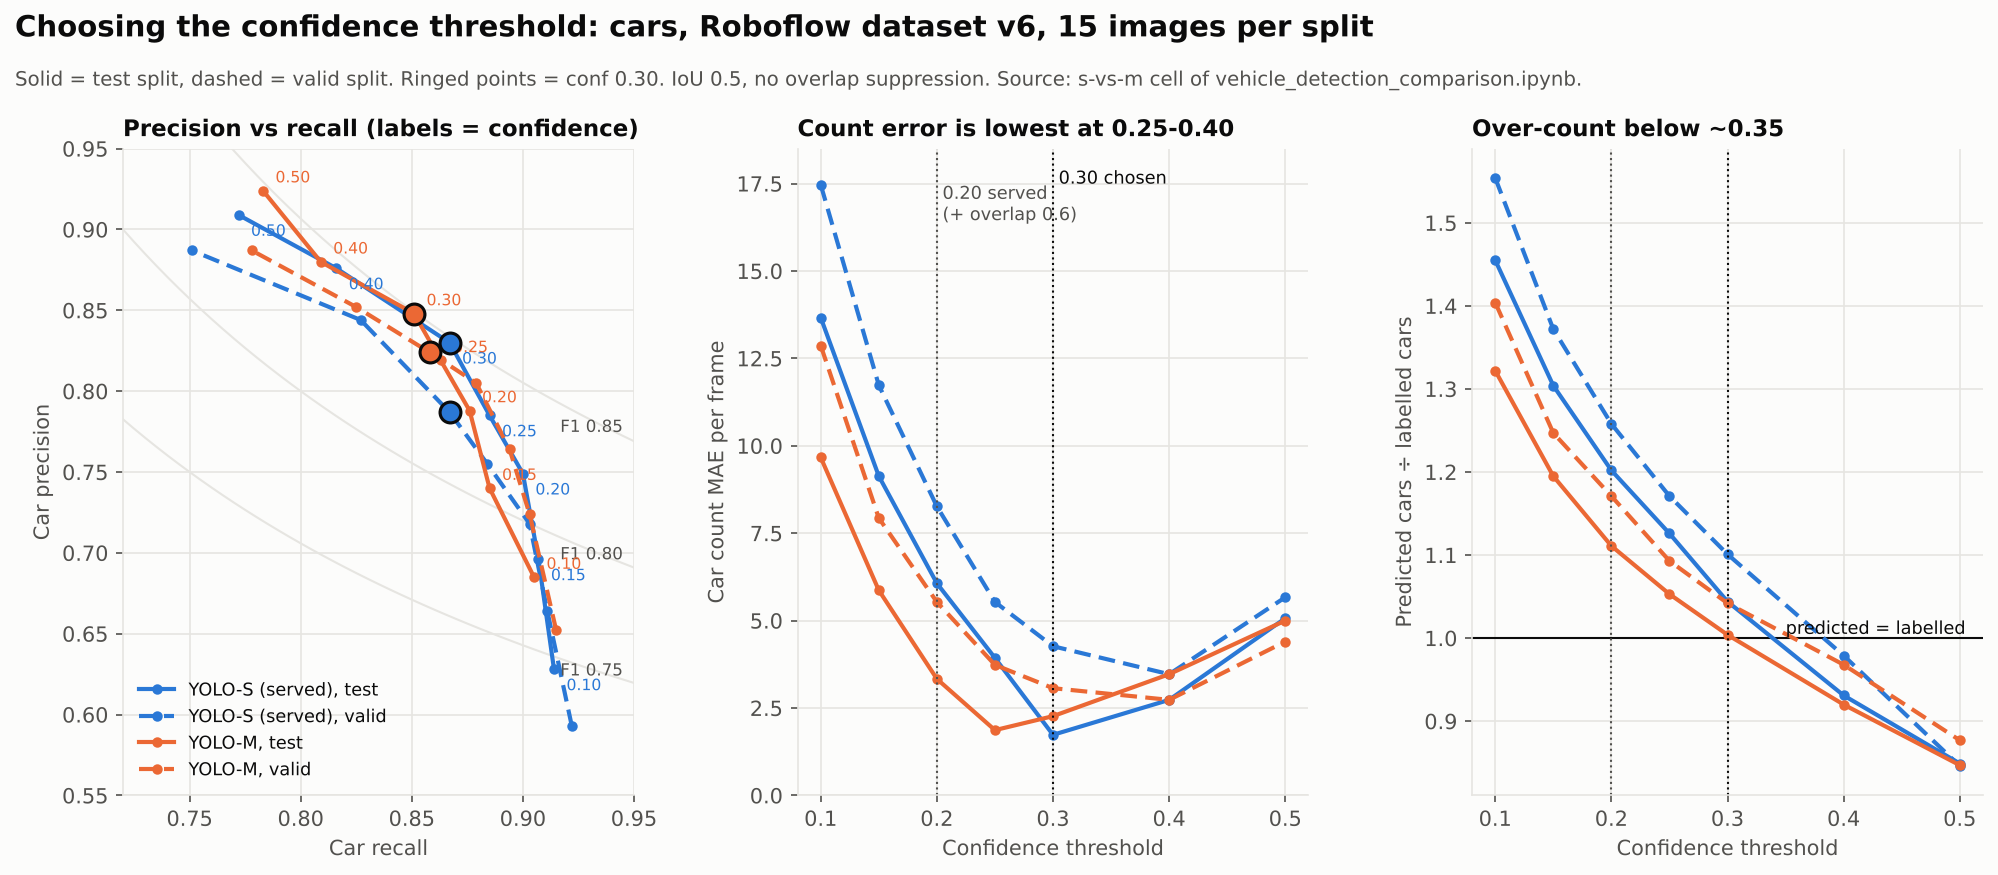
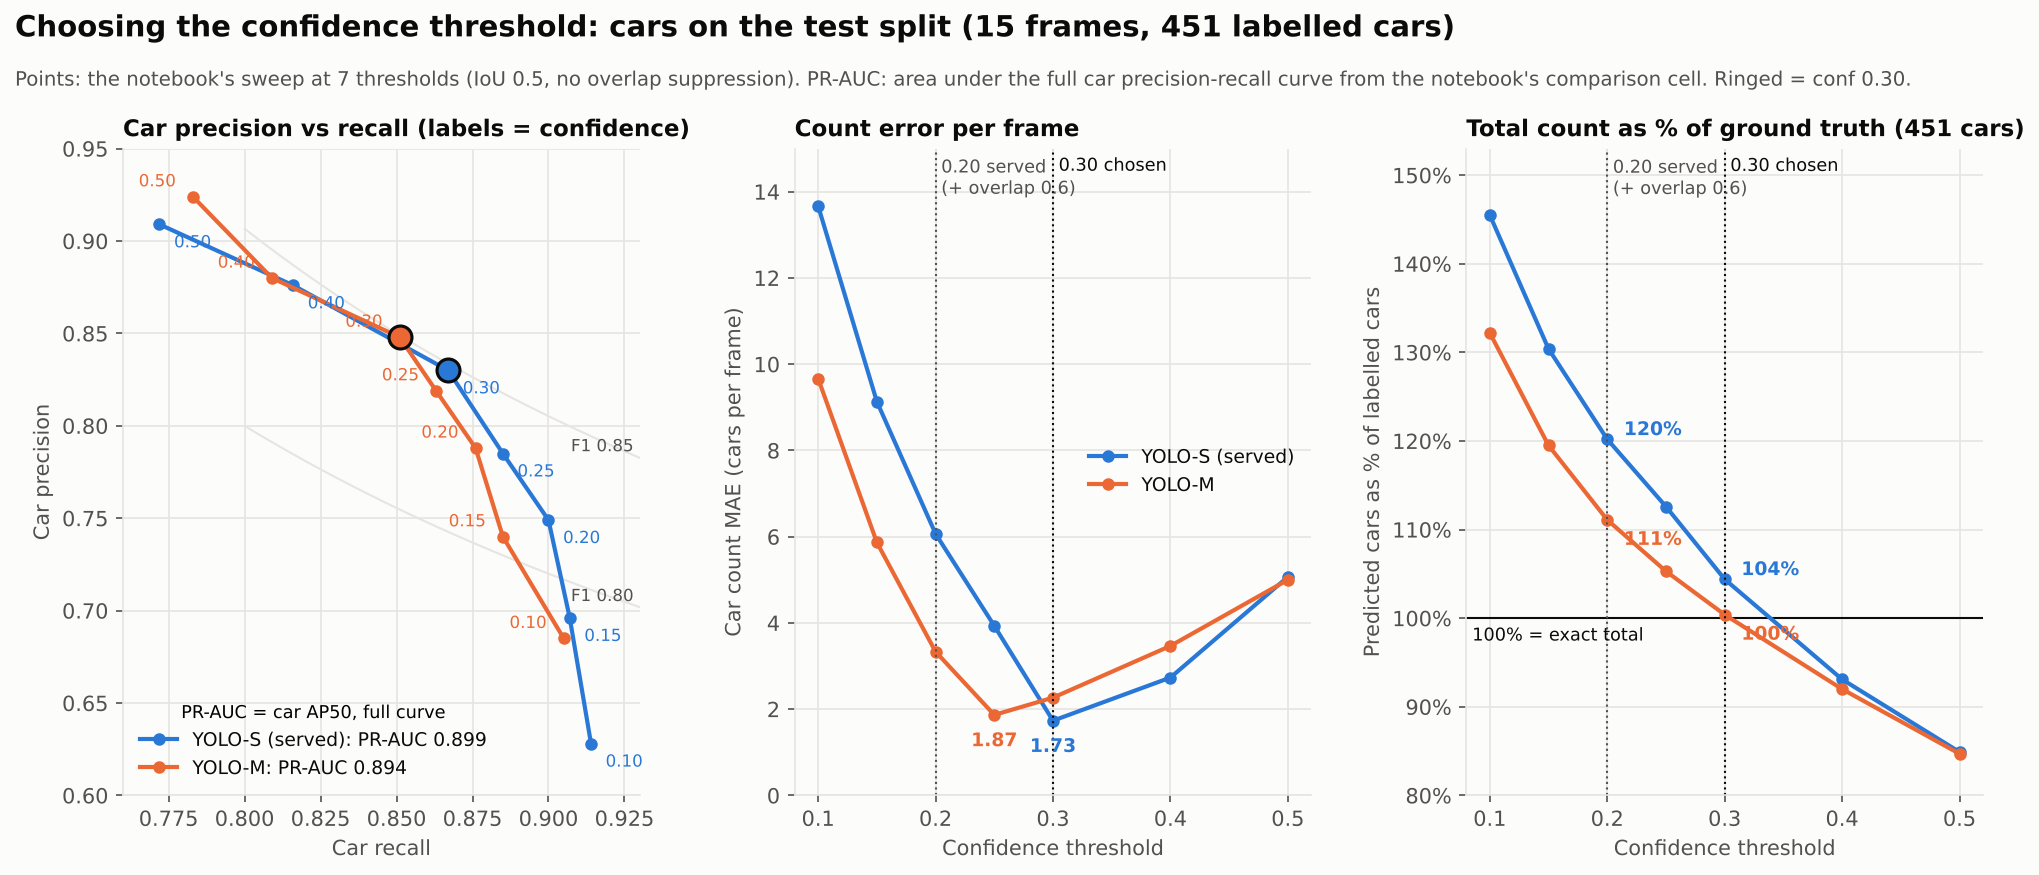
Threshold sweep chart: test split only, car PR-AUC, count as % of ground truth
Claude-Session: https://claude.ai/code/session_01VcwMcd7MRK6XLMnK8YMsG5

diff --git a/eval/test-reports/runs/plot_threshold_sweep.py b/eval/test-reports/runs/plot_threshold_sweep.py
@@ -7,7 +7,8 @@ full precision-recall curve; the full curves are BoxPR_curve.png in each eval_te
 
 Writes, next to this file:
   threshold_sweep.csv   one row per split, model and confidence
-  threshold_sweep.png   precision-recall points, count error and count ratio vs confidence
+  threshold_sweep.png   test split: precision-recall points with car PR-AUC, count error and
+                        count as a % of ground truth vs confidence
 
     python eval/test-reports/runs/plot_threshold_sweep.py
 """
@@ -48,7 +49,25 @@ def parse_sweep():
     return rows
 
 
+def parse_car_ap(split="test"):
+    """Car AP50 (area under the full precision-recall curve) from the full-comparison cell's table."""
+    nb = json.load(open(NOTEBOOK))
+    cell = next(c for c in nb["cells"] if "FULL COMPARISON" in "".join(c["source"]))
+    text = "".join("".join(o.get("text", [])) for o in cell.get("outputs", []))
+    table = text[text.index("ACCURACY (AP50"):text.index("OPERATING POINT")]
+    ap, current = {}, None
+    for line in table.splitlines():
+        parts = line.split()
+        if parts and parts[0] in ("valid", "test"):
+            current, parts = parts[0], parts[1:]
+        if current == split and parts and parts[0] in ("trained_s", "trained_m"):
+            ap[{"trained_s": "yolo26s", "trained_m": "yolo26m"}[parts[0]]] = float(parts[2])  # AP50 car
+    assert set(ap) == set(NAMES), ap
+    return ap
+
+
 rows = parse_sweep()
+CAR_AP = parse_car_ap()
 with open(os.path.join(HERE, "threshold_sweep.csv"), "w", newline="") as f:
     w = csv.DictWriter(f, fieldnames=list(rows[0]))
     w.writeheader()
@@ -63,75 +82,85 @@ def series(split, model, key):
 plt.rcParams.update({"font.family": "DejaVu Sans", "font.size": 10, "axes.edgecolor": GRID,
                      "axes.labelcolor": MUTED, "xtick.color": MUTED, "ytick.color": MUTED,
                      "axes.titlecolor": INK, "axes.titleweight": "bold", "axes.titlesize": 11})
-fig, axes = plt.subplots(1, 3, figsize=(16, 5.6), facecolor=SURFACE, gridspec_kw={"wspace": 0.32})
+fig, axes = plt.subplots(1, 3, figsize=(16, 5.6), facecolor=SURFACE, gridspec_kw={"wspace": 0.3})
 for ax in axes:
     ax.set_facecolor(SURFACE)
     ax.grid(True, color=GRID, linewidth=0.8)
     ax.set_axisbelow(True)
     for s in ("top", "right"):
         ax.spines[s].set_visible(False)
-LS = {"test": "-", "valid": (0, (4, 2))}
+SPLIT = "test"
 
-# 1. Precision vs recall, one point per confidence threshold
+
+def mark_thresholds(ax, top):
+    ax.axvline(CHOSEN, color=INK, lw=1, ls=":")
+    ax.axvline(SERVED, color=MUTED, lw=1, ls=":")
+    ax.text(CHOSEN, top, " 0.30 chosen", fontsize=8.5, color=INK, va="top")
+    ax.text(SERVED, top, " 0.20 served\n (+ overlap 0.6)", fontsize=8.5, color=MUTED, va="top")
+
+
+# 1. Precision vs recall, one point per confidence threshold; PR-AUC from the full curve
 ax = axes[0]
-for f1 in (0.75, 0.80, 0.85):  # iso-F1 guides
-    r = [x / 200 for x in range(140, 200)]
-    p = [f1 * x / (2 * x - f1) if 2 * x > f1 else None for x in r]
-    ax.plot(r, p, color=GRID, lw=1, zorder=0)
-    ax.text(0.945, f1 * 0.945 / (2 * 0.945 - f1), f"F1 {f1:.2f}", fontsize=8, color=MUTED, ha="right", va="bottom")
+for f1 in (0.80, 0.85):  # iso-F1 guides
+    r = [x / 400 for x in range(320, 381)]
+    ax.plot(r, [f1 * x / (2 * x - f1) for x in r], color=GRID, lw=1, zorder=0)
+    ax.text(0.928, f1 * 0.928 / (2 * 0.928 - f1), f"F1 {f1:.2f}", fontsize=8, color=MUTED, ha="right", va="bottom")
 for model in NAMES:
-    for split in ("test", "valid"):
-        _, rec, pts = series(split, model, "recall")
-        prec = [p["precision"] for p in pts]
-        ax.plot(rec, prec, ls=LS[split], color=COLORS[model], lw=2, marker="o", ms=4,
-                label=f"{NAMES[model]}, {split}")
-        for p in pts:
-            if p["conf"] == CHOSEN:
-                ax.plot(p["recall"], p["precision"], "o", ms=10, color=COLORS[model], mec=INK, mew=1.5, zorder=5)
-    _, rec, pts = series("test", model, "recall")
-    for p in pts:  # label the test points with their threshold
-        ax.annotate(f"{p['conf']:.2f}", (p["recall"], p["precision"]), xytext=(6, -10 if model == "yolo26s" else 4),
-                    textcoords="offset points", fontsize=7.5, color=COLORS[model])
-ax.set_xlim(0.72, 0.95)
-ax.set_ylim(0.55, 0.95)
+    _, rec, pts = series(SPLIT, model, "recall")
+    ax.plot(rec, [p["precision"] for p in pts], color=COLORS[model], lw=2, marker="o", ms=5,
+            label=f"{NAMES[model]}: PR-AUC {CAR_AP[model]:.3f}")
+    for p in pts:
+        if p["conf"] == CHOSEN:
+            ax.plot(p["recall"], p["precision"], "o", ms=11, color=COLORS[model], mec=INK, mew=1.5, zorder=5)
+        ax.annotate(f"{p['conf']:.2f}", (p["recall"], p["precision"]),
+                    xytext=(7, -11) if model == "yolo26s" else (-26, 5),
+                    textcoords="offset points", fontsize=8, color=COLORS[model])
+ax.set_xlim(0.76, 0.93)
+ax.set_ylim(0.60, 0.95)
 ax.set_xlabel("Car recall")
 ax.set_ylabel("Car precision")
-ax.set_title("Precision vs recall (labels = confidence)", loc="left")
-ax.legend(frameon=False, fontsize=8.5, loc="lower left", labelcolor=INK)
+ax.set_title("Car precision vs recall (labels = confidence)", loc="left")
+ax.legend(frameon=False, fontsize=9, loc="lower left", labelcolor=INK,
+          title="PR-AUC = car AP50, full curve", title_fontsize=8.5)
 
 # 2. Count error vs confidence
 ax = axes[1]
 for model in NAMES:
-    for split in ("test", "valid"):
-        conf, mae, _ = series(split, model, "count_mae")
-        ax.plot(conf, mae, ls=LS[split], color=COLORS[model], lw=2, marker="o", ms=4,
-                label=f"{NAMES[model]}, {split}")
-ax.axvline(CHOSEN, color=INK, lw=1, ls=":")
-ax.axvline(SERVED, color=MUTED, lw=1, ls=":")
-ax.text(CHOSEN, 17.5, " 0.30 chosen", fontsize=8.5, color=INK)
-ax.text(SERVED, 17.5, " 0.20 served\n (+ overlap 0.6)", fontsize=8.5, color=MUTED, va="top")
-ax.set_ylim(0, 18.5)
+    conf, mae, _ = series(SPLIT, model, "count_mae")
+    ax.plot(conf, mae, color=COLORS[model], lw=2, marker="o", ms=5, label=NAMES[model])
+    i = mae.index(min(mae))
+    ax.annotate(f"{mae[i]:.2f}", (conf[i], mae[i]), xytext=(0, -15), textcoords="offset points",
+                ha="center", fontsize=9, color=COLORS[model], fontweight="bold")
+mark_thresholds(ax, 14.8)
+ax.set_ylim(0, 15)
 ax.set_xlabel("Confidence threshold")
-ax.set_ylabel("Car count MAE per frame")
-ax.set_title("Count error is lowest at 0.25-0.40", loc="left")
+ax.set_ylabel("Car count MAE (cars per frame)")
+ax.set_title("Count error per frame", loc="left")
+ax.legend(frameon=False, fontsize=9, loc="center right", labelcolor=INK)
 
-# 3. Count ratio vs confidence
+# 3. Predicted count as a % of ground truth
 ax = axes[2]
-ax.axhline(1.0, color=INK, lw=1)
-ax.text(0.505, 1.0, "  predicted = labelled", fontsize=8.5, color=INK, va="bottom", ha="right")
+ax.axhline(100, color=INK, lw=1)
+ax.text(0.085, 99, "100% = exact total", fontsize=8.5, color=INK, va="top", ha="left")
 for model in NAMES:
-    for split in ("test", "valid"):
-        conf, ratio, _ = series(split, model, "count_ratio")
-        ax.plot(conf, ratio, ls=LS[split], color=COLORS[model], lw=2, marker="o", ms=4)
-ax.axvline(CHOSEN, color=INK, lw=1, ls=":")
-ax.axvline(SERVED, color=MUTED, lw=1, ls=":")
+    conf, ratio, _ = series(SPLIT, model, "count_ratio")
+    pct = [x * 100 for x in ratio]
+    ax.plot(conf, pct, color=COLORS[model], lw=2, marker="o", ms=5, label=NAMES[model])
+    for c, v in zip(conf, pct):
+        if c in (SERVED, CHOSEN):
+            ax.annotate(f"{v:.0f}%", (c, v), xytext=(8, 2 if model == "yolo26s" else -12),
+                        textcoords="offset points", fontsize=9, color=COLORS[model], fontweight="bold")
+mark_thresholds(ax, 152)
+ax.set_ylim(80, 153)
+ax.yaxis.set_major_formatter(matplotlib.ticker.PercentFormatter(decimals=0))
 ax.set_xlabel("Confidence threshold")
-ax.set_ylabel("Predicted cars ÷ labelled cars")
-ax.set_title("Over-count below ~0.35", loc="left")
+ax.set_ylabel("Predicted cars as % of labelled cars")
+ax.set_title("Total count as % of ground truth (451 cars)", loc="left")
 
-fig.suptitle("Choosing the confidence threshold: cars, Roboflow dataset v6, 15 images per split", x=0.08,
-             ha="left", fontsize=14, fontweight="bold", color=INK, y=1.04)
-fig.text(0.08, 0.955, "Solid = test split, dashed = valid split. Ringed points = conf 0.30. IoU 0.5, no overlap "
-         "suppression. Source: s-vs-m cell of vehicle_detection_comparison.ipynb.", fontsize=9.5, color=MUTED)
+fig.suptitle("Choosing the confidence threshold: cars on the test split (15 frames, 451 labelled cars)",
+             x=0.08, ha="left", fontsize=14, fontweight="bold", color=INK, y=1.04)
+fig.text(0.08, 0.955, "Points: the notebook's sweep at 7 thresholds (IoU 0.5, no overlap suppression). PR-AUC: area "
+         "under the full car precision-recall curve from the notebook's comparison cell. Ringed = conf 0.30.",
+         fontsize=9.5, color=MUTED)
 fig.savefig(os.path.join(HERE, "threshold_sweep.png"), dpi=150, bbox_inches="tight", facecolor=SURFACE)
-print(f"wrote threshold_sweep.csv ({len(rows)} rows) and threshold_sweep.png")
+print(f"wrote threshold_sweep.csv ({len(rows)} rows) and threshold_sweep.png; car PR-AUC {CAR_AP}")

diff --git a/eval/test-reports/runs/README.md b/eval/test-reports/runs/README.md
@@ -68,12 +68,14 @@ no "object loss" panel. Rebuild both with `python eval/test-reports/runs/plot_tr
 
 ![Training curves](training_curves.png)
 
-Car recall, precision and count error at confidence 0.10-0.50 for both models, valid and test
-splits, parsed from the notebook output: [`threshold_sweep.csv`](threshold_sweep.csv) and
-[`threshold_sweep.png`](threshold_sweep.png) (rebuild with
-`python eval/test-reports/runs/plot_threshold_sweep.py`). It is a 7-point trade-off curve; the
-per-box predictions behind a full precision-recall curve are not in the repo (Ultralytics' own full
-curves are `BoxPR_curve.png` in each `eval_test/` folder). Count error is lowest at 0.30 (YOLO-S)
+Car recall, precision and count error at confidence 0.10-0.50 for both models, parsed from the
+notebook output: [`threshold_sweep.csv`](threshold_sweep.csv) (valid and test splits) and
+[`threshold_sweep.png`](threshold_sweep.png) (test split: precision vs recall with each model's car
+PR-AUC, count MAE, and the total count as a % of the 451 labelled cars). Rebuild with
+`python eval/test-reports/runs/plot_threshold_sweep.py`. The points are a 7-threshold sweep; the
+PR-AUC is car AP50 from the notebook's full-comparison cell (0.899 YOLO-S, 0.894 YOLO-M). The
+per-box predictions behind a full precision-recall curve are not in the repo (Ultralytics' own
+full curves are `BoxPR_curve.png` in each `eval_test/` folder). Count error is lowest at 0.30 (YOLO-S)
 and 0.25 (YOLO-M) on test, and at 0.40 for both on valid. Picking the threshold on test is
 optimistic; the served setting is conf 0.20 with overlap 0.6.
 
